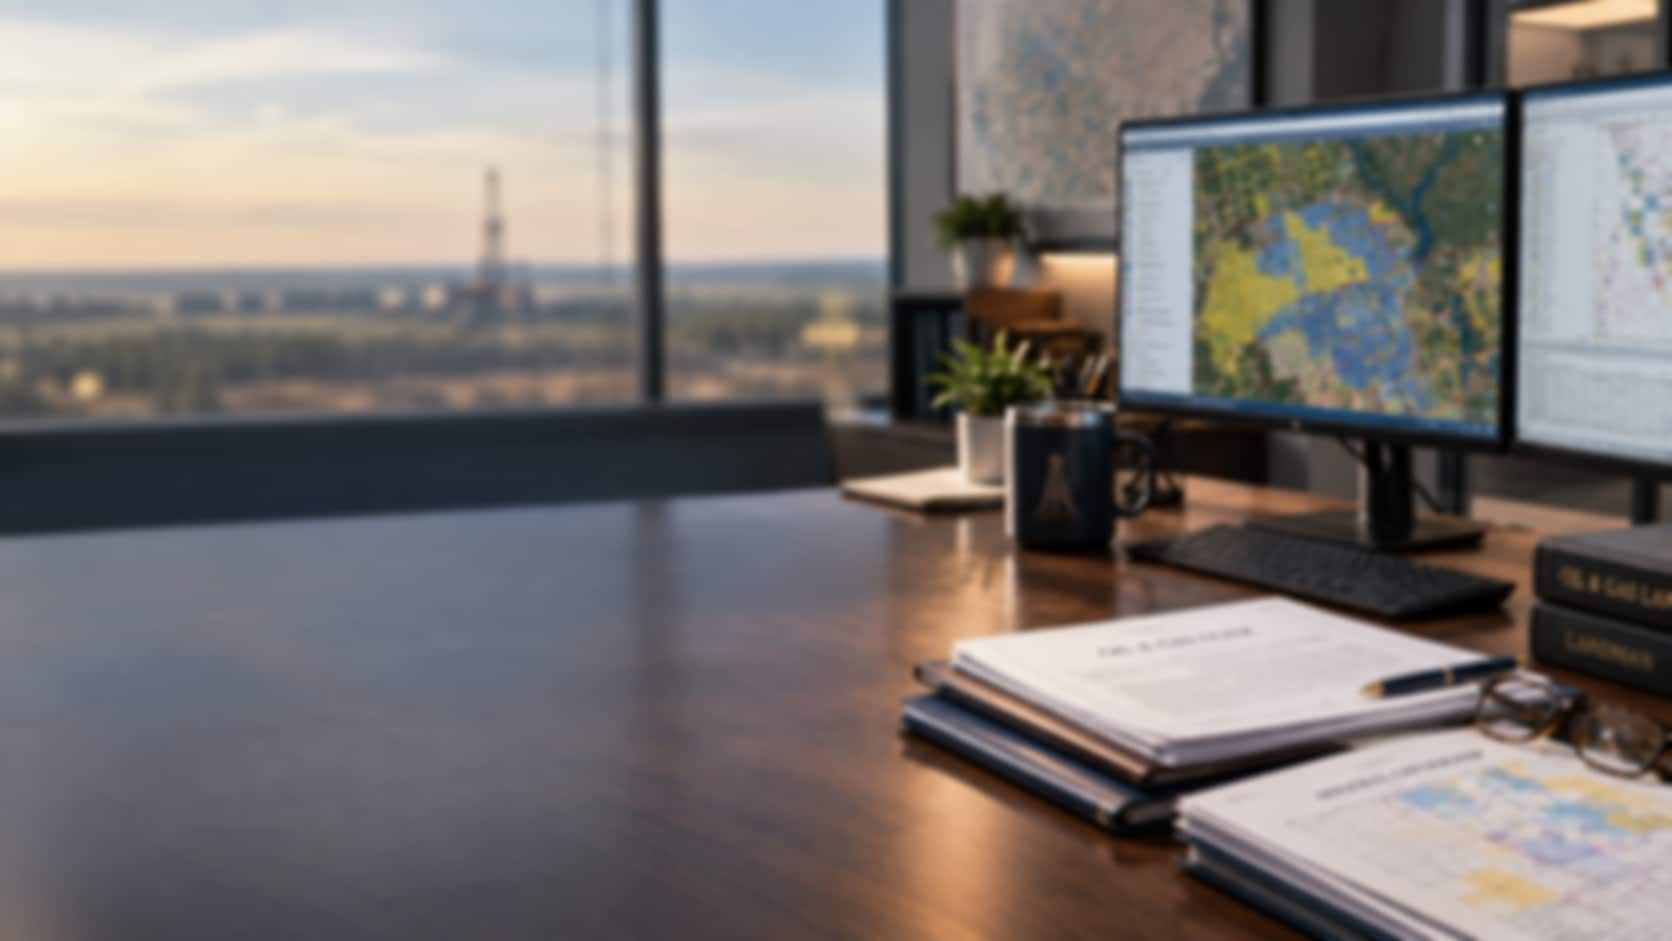
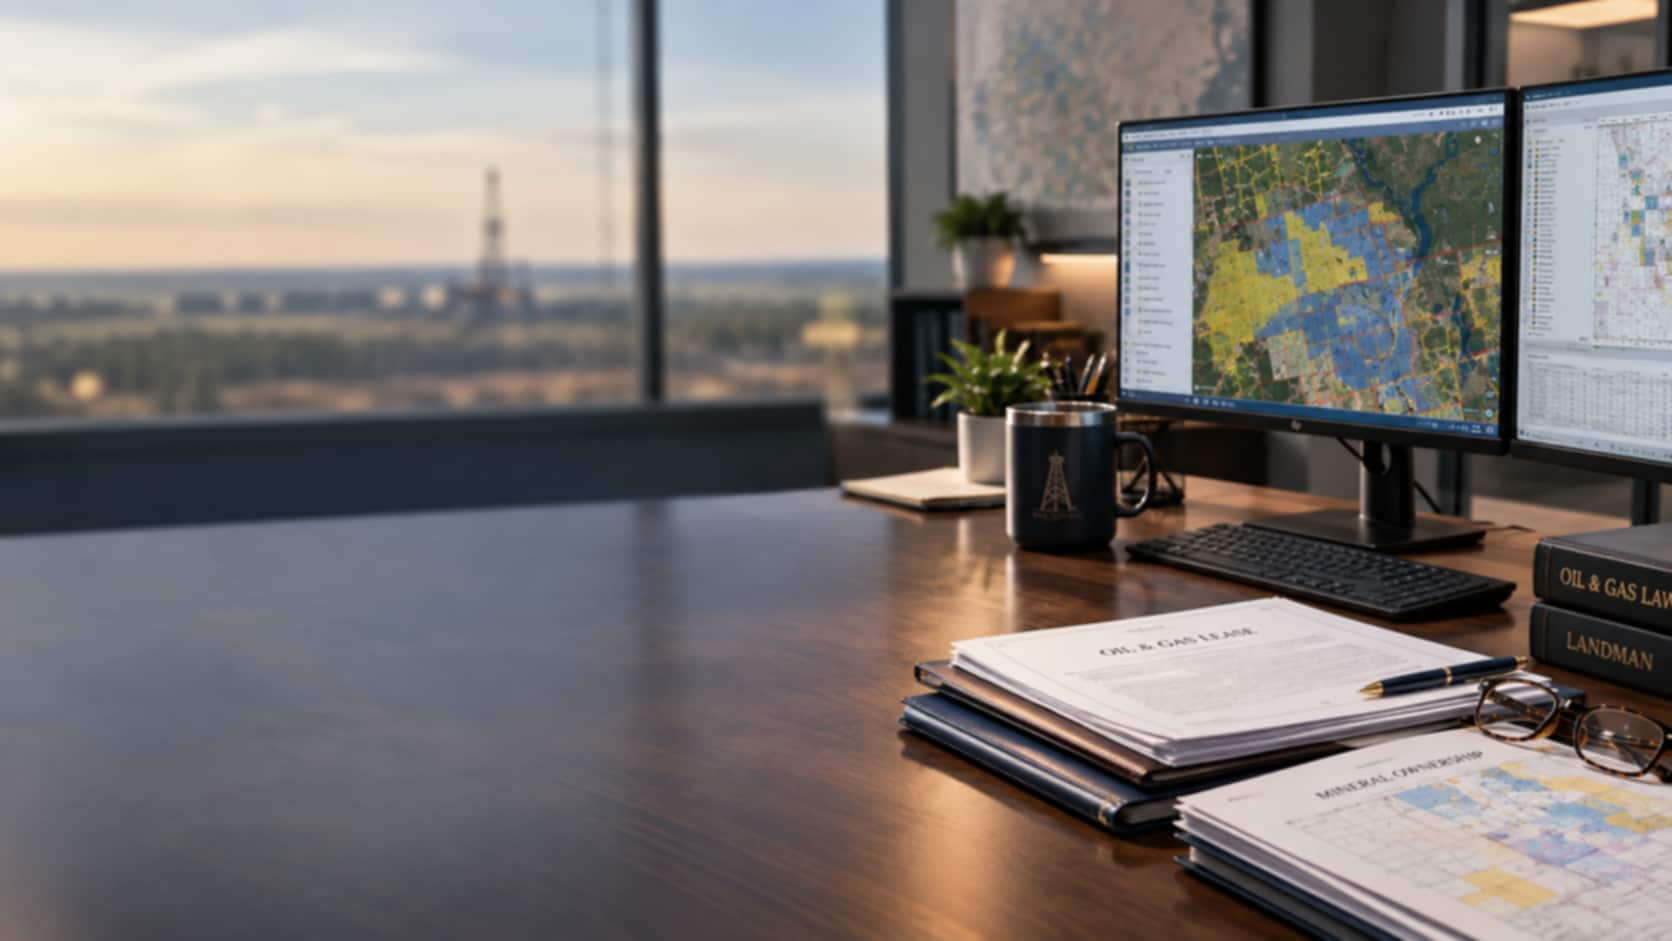
Ease off the blur on the three photographs
At 3.5 they read as out of focus rather than as a backdrop — the book
spines, the lease and the map legend were all mush. 1.2 keeps them
sitting back behind the copy while the scene stays legible, which is the
point of using photographs of the actual work.

Contrast holds: 4.4:1 at worst behind the large hero headline, which
needs 3:1, and 5.5:1 or better everywhere the body copy sits. The three
files now deploy at 160 KB together, up from 106 KB.

diff --git a/README.md b/README.md
@@ -85,15 +85,15 @@ derived JPEGs in `public/images/uploads/` are committed and served.
 | `workspace-rig-sunset.png` | `cta-rig-sunset.jpg` | Home closing band |
 | `workspace-desk-map.png` | `mineral-owners-desk.jpg` | Mineral Owners header |
 
-Each is blurred and desaturated at build time rather than with a CSS filter. Blurring a bitmap
-that size on every paint costs a full composited layer, and a pre-blurred file compresses far
-harder — the three together deploy at about 106 KB, against 6 MB of originals. Regenerate with
-[sharp](https://sharp.pixelplumbing.com), already a dependency:
+Each is softened slightly and desaturated at build time rather than with a CSS filter. Blurring a
+bitmap that size on every paint costs a full composited layer, and the processed file also
+compresses harder — the three together deploy at about 160 KB, against 6 MB of originals.
+Regenerate with [sharp](https://sharp.pixelplumbing.com), already a dependency:
 
 ```js
-sharp(src).resize({ width: 1672 }).blur(3.5)
+sharp(src).resize({ width: 1672 }).blur(1.2)
   .modulate({ saturation: 0.85 })
-  .jpeg({ quality: 62, mozjpeg: true })
+  .jpeg({ quality: 64, mozjpeg: true })
   .toFile(out)
 ```
 
@@ -104,16 +104,19 @@ two sit behind centred text, so their wash is even and is composited into the fi
 `#1B4332` then `#0B1F15`, at `.20`/`.58` for the closing band and `.18`/`.60` for the header:
 
 ```js
-sharp(src).resize({ width: 1672, height: 941, fit: 'cover' }).blur(3.5)
+sharp(src).resize({ width: 1672, height: 941, fit: 'cover' }).blur(1.2)
   .modulate({ saturation: 0.85 })
   .composite([{ input: greenLayer }, { input: darkLayer }])
-  .jpeg({ quality: 66, mozjpeg: true })
+  .jpeg({ quality: 68, mozjpeg: true })
   .toFile(out)
 ```
 
-Swapping a source means rechecking contrast: white text should clear 4.5:1 against the brightest
-point it covers. The current files measure 4.5:1 or better at their worst, and above 10:1 on
-average.
+The blur is deliberately light — enough to stop map grids and document text competing with the
+copy, not enough to make the scene mush. Raising it much past 2 starts to read as out of focus.
+
+Swapping a source, or changing the blur, means rechecking contrast: white text should clear 4.5:1
+against the brightest point it covers. The current files measure 4.4:1 at worst behind the large
+hero headline, which needs only 3:1, and 5.5:1 or better everywhere the body copy sits.
 
 The hero and closing-band images are set through the CMS, so either can be changed without
 touching code — but an unprocessed upload will be sharp, heavy, and washed only by whatever the
